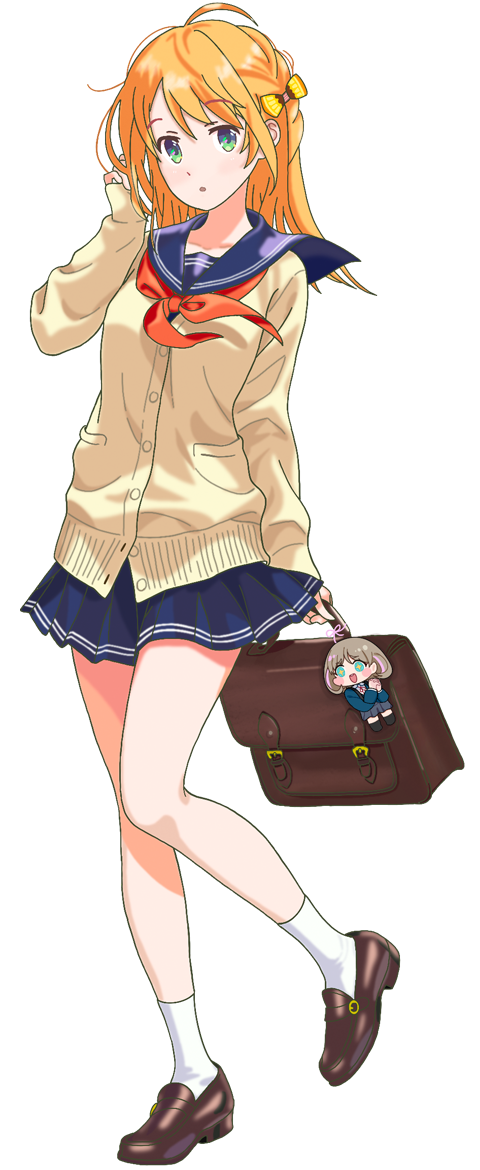
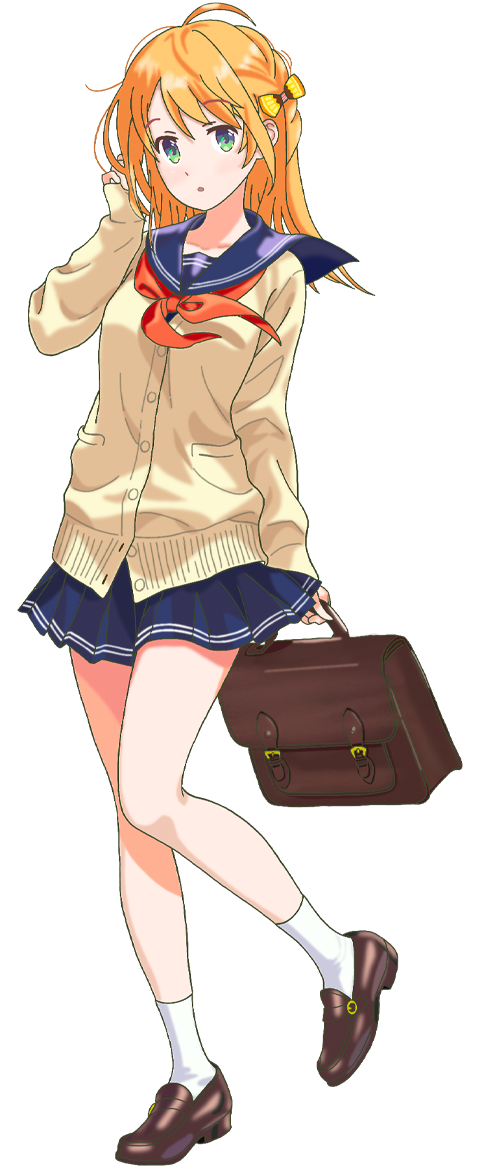
Replace images

diff --git a/README.md b/README.md
@@ -19,7 +19,7 @@
 
 <p align="right">
   <a href="https://github.com/pudding0503">
-      <img width="210px" src="assets/pudding.png" align="right" alt="Pudding">
+      <img width="210px" src="assets/puff.png" align="right" alt="Puff">
   </a>
 </p>
 
